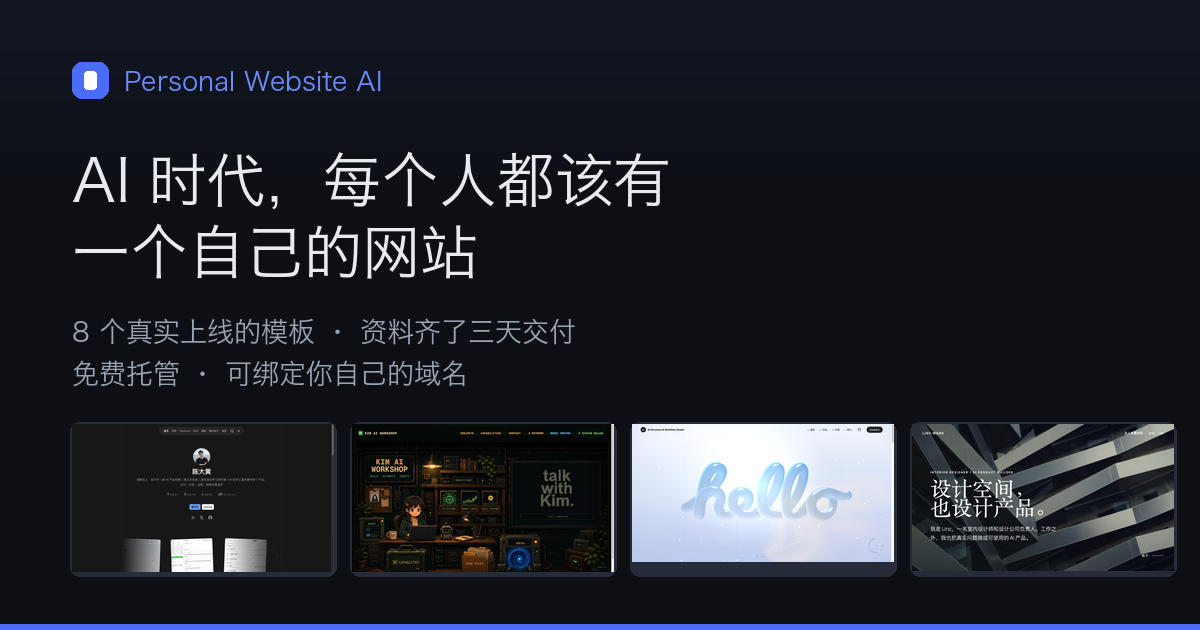
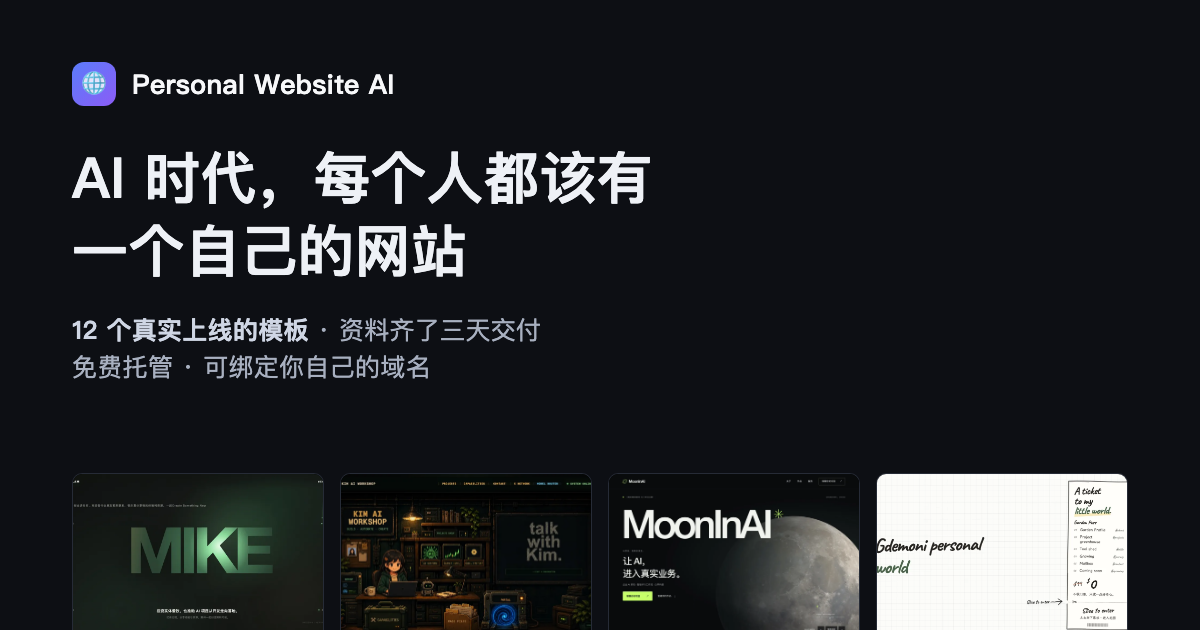
feat: 模板库 12 个收录收尾 + 修复展示页卡片图被压变形
合并 PR #2/#3/#4/#6 新增的 #009–#012 后收尾：

- 4 张新增预览图统一转 webp 并补 img 尺寸属性，对齐 main 资源规范
- 模板数口径统一为 12：展示页 meta/og/twitter/正文、404、README 双语、ROADMAP、M1-LISTING
- MENU.md 补齐风格 I–L（AI 顾问 / 独立 App 小站 / AI 工作流作品集 / 互动数字花园），
  并同步风格 H 的改版描述
- M1-LISTING 九图重排（闲鱼上限 9 张，11 个风格中挑 8 张，其余在详情列出）
- 重制 og.png 分享卡（原卡仍写「8 个模板」）

修复：上一步给 .card img 加 width/height 属性后，属性作为表现层提示覆盖了
CSS 的 aspect-ratio，预览图被拉伸成竖长条（线上现网同样受影响）。补 height:auto 修正。

diff --git a/site/index.html b/site/index.html
@@ -4,7 +4,7 @@
   <meta charset="UTF-8">
   <meta name="viewport" content="width=device-width, initial-scale=1.0">
   <title>Personal Website AI · 属于你自己的个人网站</title>
-  <meta name="description" content="AI 时代，每个人都该有一个自己的网站。8 个真实上线的模板任选，把你的资料交给 AI，三天上线，绑定你自己的域名——不用懂任何技术。">
+  <meta name="description" content="AI 时代，每个人都该有一个自己的网站。12 个真实上线的模板任选，把你的资料交给 AI，三天上线，绑定你自己的域名——不用懂任何技术。">
   <link rel="canonical" href="https://personal-website-ai.chendahuang.com/">
   <link rel="icon" href="favicon.svg" type="image/svg+xml">
   <link rel="icon" href="favicon.ico" sizes="any">
@@ -15,7 +15,7 @@
   <meta property="og:type" content="website">
   <meta property="og:site_name" content="Personal Website AI">
   <meta property="og:title" content="AI 时代，每个人都该有一个自己的网站">
-  <meta property="og:description" content="8 个真实上线的模板任选，资料齐了三天交付，免费托管、可绑定你自己的域名。">
+  <meta property="og:description" content="12 个真实上线的模板任选，资料齐了三天交付，免费托管、可绑定你自己的域名。">
   <meta property="og:image" content="https://personal-website-ai.chendahuang.com/og.png">
   <meta property="og:image:width" content="1200">
   <meta property="og:image:height" content="630">
@@ -23,7 +23,7 @@
   <meta property="og:locale" content="zh_CN">
   <meta name="twitter:card" content="summary_large_image">
   <meta name="twitter:title" content="AI 时代，每个人都该有一个自己的网站">
-  <meta name="twitter:description" content="8 个真实上线的模板任选，资料齐了三天交付，免费托管、可绑定你自己的域名。">
+  <meta name="twitter:description" content="12 个真实上线的模板任选，资料齐了三天交付，免费托管、可绑定你自己的域名。">
   <meta name="twitter:image" content="https://personal-website-ai.chendahuang.com/og.png">
 
   <script type="application/ld+json">
@@ -87,7 +87,7 @@
 
     <section id="templates" class="section">
       <h2>挑一个模板</h2>
-      <p class="section-sub">下面 9 个都是真实上线、点开就能玩的个人网站。每个都标了适合谁、好在哪、站长是谁——照着挑就行。</p>
+      <p class="section-sub">下面 12 个都是真实上线、点开就能玩的个人网站。每个都标了适合谁、好在哪、站长是谁——照着挑就行。</p>
       <div class="grid">
         <article class="card">
           <img src="assets/mc9world.com-home.webp" alt="极简名片风格预览：mc9world.com" loading="lazy" width="1100" height="583">
@@ -234,7 +234,7 @@
           </div>
         </article>
         <article class="card">
-          <img src="assets/mooninai.top-home.jpg" alt="AI 系统顾问与公开构建站预览" loading="lazy">
+          <img src="assets/mooninai.top-home.webp" alt="AI 系统顾问与公开构建站预览：mooninai.top" loading="lazy" width="1100" height="764">
           <div class="card-body">
             <h3>AI 系统顾问与公开构建站</h3>
             <p class="card-desc">月球探索视觉开场，把 AI 服务、公开作品和合作过程组织成一条可读、可验证的个人叙事。</p>
@@ -251,7 +251,7 @@
           </div>
         </article>
         <article class="card">
-          <img src="assets/wwwstationcat.org-home.jpg" alt="Station Cat 独立 App 与日常创作小站预览" loading="lazy">
+          <img src="assets/wwwstationcat.org-home.webp" alt="独立 App 与日常创作小站预览：wwwstationcat.org" loading="lazy" width="1100" height="619">
           <div class="card-body">
             <h3>独立 App 与日常创作小站</h3>
             <p class="card-desc">把独立 App、网页游戏、连载小说和日常观察放进一座纸张便签式的小站，记录从零学习到持续做出作品的过程。</p>
@@ -269,7 +269,7 @@
           </div>
         </article>
         <article class="card">
-          <img src="assets/jasper-wei-home.jpg" alt="Jasper Wei AI 工作流与项目作品集预览" loading="lazy">
+          <img src="assets/jasper-wei-home.webp" alt="AI 工作流与项目作品集预览：jasper-wei" loading="lazy" width="1100" height="523">
           <div class="card-body">
             <h3>AI 工作流与项目作品集</h3>
             <p class="card-desc">WebGL 波动光场开场，通过个人介绍、项目列表与案例详情，展示持续构建 AI 工作流的实践。</p>
@@ -286,7 +286,7 @@
           </div>
         </article>
         <article class="card">
-          <img src="assets/zshgdemoni.me-home.jpg" alt="互动数字花园预览" loading="lazy">
+          <img src="assets/zshgdemoni.me-home.webp" alt="互动数字花园预览：zshgdemoni.me" loading="lazy" width="1100" height="619">
           <div class="card-body">
             <h3>互动数字花园</h3>
             <p class="card-desc">撕下一张花园门票，进入由个人档案、真实项目、工具与成长经历组成的手绘小世界。</p>
@@ -311,7 +311,7 @@
       <ol class="steps">
         <li>
           <strong>挑风格</strong>
-          <p>在上面 9 个模板里选一个最像你的。拿不准就直说「我想要 A 的排版 + B 的感觉」，混合也可以。</p>
+          <p>在上面 12 个模板里选一个最像你的。拿不准就直说「我想要 A 的排版 + B 的感觉」，混合也可以。</p>
         </li>
         <li>
           <strong>给资料</strong>

diff --git a/site/404.html b/site/404.html
@@ -18,7 +18,7 @@
     <p>这个地址不存在，可能是链接输错了。</p>
     <p>想看模板的话，回到首页慢慢挑：</p>
     <p class="notfound-actions">
-      <a class="btn btn-primary" href="/">回首页看 8 个模板</a>
+      <a class="btn btn-primary" href="/">回首页看 12 个模板</a>
     </p>
   </main>
 </body>

diff --git a/site/style.css b/site/style.css
@@ -118,6 +118,7 @@ a:hover { text-decoration: underline; }
 .card:hover { transform: translateY(-3px); border-color: var(--accent); }
 .card img {
   width: 100%;
+  height: auto;
   aspect-ratio: 16 / 10;
   object-fit: cover;
   object-position: top;

diff --git a/MENU.md b/MENU.md
@@ -95,11 +95,59 @@
 
 ![linc.wang 预览](templates/linc.wang-home.jpg)
 
-**一句话**：先交代专业主业（室内设计），再陈列可直接体验的 AI 产品，用杂志式留白把双重身份讲成一个清晰叙事。
+**一句话**：以室内设计为职业根基，展示造境与 AI 订阅雷达，并直达室内设计、内容与社媒合作。
 
-- **适合谁**：有明确专业主业、同时在构建数字产品的独立设计师、工作室负责人、跨界创作者。
-- **亮点**：专业根基先行，不做泛泛的 AI 标签墙；建筑摄影 + 衬线标题的高级感；真实产品界面与 Demo 入口承担可信度；中英双语 + 减少动效支持。
+- **适合谁**：有明确专业主业、同时在构建数字产品或服务的独立设计师、工作室负责人、跨界创作者。
+- **亮点**：空间参考图 + 建筑摄影 + 编辑式留白撑起审美；造境前后对照与 AI 订阅雷达讲清用途、职责和步骤；室内设计 / 内容 / 社媒服务直达四步合作流程；中英双语、手机浏览与联系便捷。
 - **参考**：[linc.wang](https://linc.wang) · 站长 Linc：[@superwang](https://x.com/superwang)
+
+---
+
+## 风格 I · AI 系统顾问与公开构建站（¥299 起）
+
+![mooninai.top 预览](templates/mooninai.top-home.jpg)
+
+**一句话**：月球探索视觉开场，把 AI 服务、公开作品和合作过程组织成一条可读、可验证的个人叙事。
+
+- **适合谁**：AI 顾问、自动化服务者和正在公开构建的独立创作者——既要讲清服务能力，也要把作品变成信任资产。
+- **亮点**：大字号主张 + 月球互动 + 荧光绿点缀，先立品牌记忆再落业务；作品先行，开源工具与工作流承担可核对的能力证明；服务按客户场景组织，四步过程讲清一次合作怎么走。
+- **参考**：[mooninai.top](https://mooninai.top/) · 站长 MoonInAI：[GitHub @chenjin-cmd](https://github.com/chenjin-cmd)
+
+---
+
+## 风格 J · 独立 App 与日常创作小站（¥299 起）
+
+![wwwstationcat.org 预览](templates/wwwstationcat.org-home.jpg)
+
+**一句话**：把独立 App、网页游戏、连载小说和日常观察放进一座纸张便签式的小站，记录从零学习到持续做出作品的过程。
+
+- **适合谁**：同时做产品、写作和日常内容的独立开发者与创作者——希望用一个有个人温度的网站集中展示多种作品。
+- **亮点**：米色方格底纹、衬线大字与胶带纸片看板，把首页做成一张日常工作桌；产品卡展示用途、发布或测试状态并直给入口；App / 游戏 / 小说 / 简报分区呈现；提供繁中、简中、英文、日文导航选项。
+- **参考**：[wwwstationcat.org](https://wwwstationcat.org/) · 站长 Station Cat：[@statiocat](https://x.com/statiocat)
+
+---
+
+## 风格 K · AI 工作流与项目作品集（¥299 起）
+
+![jasper-wei 预览](templates/jasper-wei-home.jpg)
+
+**一句话**：WebGL 波动光场开场，通过个人介绍、项目列表与案例详情，展示持续构建 AI 工作流的实践。
+
+- **适合谁**：希望同时展示作品和思考过程的 AI Builder、独立开发者与创作者。
+- **亮点**：首页、项目列表与详情分层，不同深度的阅读各有入口；交互式流程与设计取舍，说明项目怎么运转、为什么这样设计；支持暂停与减少动效，源码采用 MIT。
+- **参考**：[Jasper Wei](https://jasper-wei.vast-beech-4429.chatgpt.site/) · 站长 Jasper：[@Jasper_Wei1](https://x.com/Jasper_Wei1) · [GitHub](https://github.com/Jasper-Wei1/websites)
+
+---
+
+## 风格 L · 互动数字花园（¥399 起）
+
+![zshgdemoni.me 预览](templates/zshgdemoni.me-home.jpg)
+
+**一句话**：撕下一张花园门票，进入由个人档案、真实项目、工具与成长经历组成的手绘小世界。
+
+- **适合谁**：正在积累作品与经历的学生开发者、AI Builder 和独立开发者——想公开记录成长，也想让个人站拥有鲜明记忆点。
+- **亮点**：门票式开场把进入网站变成一次互动仪式，第一屏就建立辨识度；园丁档案 / 项目温室 / 工具棚 / 成长小径 / 花园信箱共享一套叙事语言；真实项目详情、浏览集章与植物动效；中文 / English 切换与减少动效回退。
+- **参考**：[zshgdemoni.me](https://zshgdemoni.me) · 站长 Gdemoni：[GitHub @gdemoni](https://github.com/gdemoni)
 
 ---
 

diff --git a/M1-LISTING.md b/M1-LISTING.md
@@ -18,21 +18,22 @@
 
 ## 二、主图与九图
 
-闲鱼商品图按这个顺序放（直接从仓库取图，都是现成的）：
+闲鱼商品图最多 9 张，所以从 12 个风格里挑覆盖面最广、视觉差异最大的 8 张，其余 4 个风格在详情文案里都有列（买家问哪张就单独发）。直接从仓库取图，都是现成的：
 
 | 位置 | 内容 | 素材 |
 |------|------|------|
 | 图 1（主图） | 展示页分享卡（大字标题，一眼看懂卖什么） | `site/og.png` |
 | 图 2 | 极简名片风格 | `templates/mc9world.com-home.jpg` |
 | 图 3 | 作品与内容陈列站 | `templates/chendahuang.com-home.jpg` |
-| 图 4 | 内容与社区站 | `templates/coucouya.com-home.jpg` |
-| 图 5 | AI 产品作品集 | `templates/edison-zwteam.pages.dev-home.jpg` |
-| 图 6 | 视觉工作室 | `templates/su-uni.cc-home.jpg` |
-| 图 7 | 互动像素工作室 | `templates/kim-ai-workshop.com-home.jpg` |
-| 图 8 | 极客成长记录站 | `templates/jack0813y.github.io-home.jpg` |
-| 图 9 | 设计实践 × AI 产品 | `templates/linc.wang-home.jpg` |
+| 图 4 | AI 产品作品集 | `templates/edison-zwteam.pages.dev-home.jpg` |
+| 图 5 | 视觉工作室 | `templates/su-uni.cc-home.jpg` |
+| 图 6 | 互动像素工作室 | `templates/kim-ai-workshop.com-home.jpg` |
+| 图 7 | 极客成长记录站 | `templates/jack0813y.github.io-home.jpg` |
+| 图 8 | 设计实践 × AI 产品 | `templates/linc.wang-home.jpg` |
+| 图 9 | 互动数字花园 | `templates/zshgdemoni.me-home.jpg` |
 
 > 每张图建议加一行白底文字标注风格名（如「极简名片」），买家不用点开就能比。
+> 没上榜的 4 个风格：内容与社区站、AI 系统顾问与公开构建站、独立 App 与日常创作小站、AI 工作流与项目作品集——有人问起或想定向吸引某类客户时替换进来即可。
 
 ## 三、商品详情文案（直接复制）
 
@@ -47,7 +48,7 @@
 · 不用懂技术，你只管给资料，建站、部署、域名配置我来做
 · 三天交付，改到满意为止
 
-【8 种风格可选】
+【12 种风格可选】
 1. 极简名片 —— 名字 + 一句人设 + 「先聊聊」按钮，适合创业者/自由职业者
 2. 作品与内容陈列站 —— 项目/博客/技能分层，适合独立开发者、创作者
 3. 内容与社区站 —— 干货沉淀成手册，导流私域，适合科普作者、社群主理人
@@ -56,6 +57,10 @@
 6. 互动像素工作室 —— 开机动画 + 可点场景，适合极客、AI Builder
 7. 极客成长记录站 —— 公开记录成长过程，适合转型中的工程师
 8. 设计实践 × AI 产品 —— 主业与产品并置，适合有专业主业的跨界者
+9. AI 系统顾问与公开构建站 —— 服务 + 作品 + 合作流程，适合 AI 顾问、自动化服务者
+10. 独立 App 与日常创作小站 —— 多种作品集中展示，适合独立开发者、多领域创作者
+11. AI 工作流与项目作品集 —— 项目结果 + 思考过程，适合 AI Builder、独立创作者
+12. 互动数字花园 —— 门票式互动开场，适合学生开发者、想做出记忆点的个人
 
 先看风格，选中一个最像你的，剩下的交给我。
 拿不准就说「我想要 A 的排版 + B 的感觉」，混合也可以。
@@ -64,7 +69,7 @@
 拍下前先聊：告诉我你的风格偏好 + 一句话介绍 + 3~5 个作品 + 联系方式。
 资料齐了三天交付。
 
-想先看效果？可以看线上展示页（8 个真实案例都是活的）：
+想先看效果？可以看线上展示页（12 个真实案例都是活的）：
 https://personal-website-ai.chendahuang.com/
 ```
 
@@ -72,7 +77,7 @@ https://personal-website-ai.chendahuang.com/
 
 **开场（买家来问）**
 
-> 你好～可以先看下这个展示页，8 种风格都是真实上线的案例：personal-website-ai.chendahuang.com
+> 你好～可以先看下这个展示页，12 种风格都是真实上线的案例：personal-website-ai.chendahuang.com
 > 你先挑一个最像你的，或者告诉我你是做什么的，我帮你推荐。
 
 **问「多少钱」**（先聊后报价）

diff --git a/README.md b/README.md
@@ -188,7 +188,7 @@ Milestones are **validation gates**, not a to-do list. Each has a gate you must 
 |------|------------|
 | `templates/` | Reference template docs + homepage screenshots (the gallery raw material) |
 | `site/` | The showcase website — plain HTML/CSS, deployed to Cloudflare Pages |
-| `MENU.md` | The M1 sales menu: 8 styles with positioning, highlights and starting prices |
+| `MENU.md` | The M1 sales menu: 12 styles with positioning, highlights and starting prices |
 | `ROADMAP.md` | Milestone gates and the M1 sales kit (listing copy, scripts, deal log) |
 | `M1-DEALS.md` | Deal log — who paid, how much, what they bought (M1 gate evidence) |
 

diff --git a/ROADMAP.md b/ROADMAP.md
@@ -9,7 +9,7 @@
 **门禁**：≥3 人真金白银付钱，且能说清「谁付的、付了多少、买的是什么」。
 
 - 获客主战场：**闲鱼摆摊**——个人卖家门槛低、支付宝/微信直接收款、国内客户好触达
-- 菜单直接用 `MENU.md`（8 个风格 + 报价，当商品图/文案用）
+- 菜单直接用 `MENU.md`（12 个风格 + 报价，当商品图/文案用）
 - 展示页（线上门面）：https://personal-website-ai.chendahuang.com/
 - 成交台账：`M1-DEALS.md`——每成一单就记一行，M1 通关时直接当证据
 - 上架物料与话术见下方「M1 销售物料」

diff --git a/README.zh.md b/README.zh.md
@@ -188,7 +188,7 @@ AI 时代，让每个人都能拥有一张属于自己的**数字名片** ——
 |------|------|
 | `templates/` | 参考模板分析文档 + 首页截图（模板库原料） |
 | `site/` | 线上展示页——纯 HTML/CSS，部署在 Cloudflare Pages |
-| `MENU.md` | M1 获客菜单：8 个风格定位、亮点与起步价 |
+| `MENU.md` | M1 获客菜单：12 个风格定位、亮点与起步价 |
 | `ROADMAP.md` | 里程碑门禁 + M1 销售物料（上架文案、话术） |
 | `M1-DEALS.md` | 成交台账——谁付的、付了多少、买的是什么（M1 门禁证据） |
 
